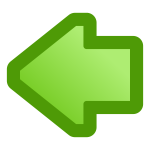
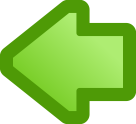
controls and background added

Changed region(s): [[0.0, 0.0, 1.0, 1.0]]

diff --git a/app/src/main/assets/PhoneMario.js b/app/src/main/assets/PhoneMario.js
@@ -28,19 +28,33 @@ class aSprite {
   }
 
   // Method
-  render()
+  render(width, height)
   {
-    canvasContext.drawImage(this.sImage,this.x, this.y);
+    canvasContext.drawImage(this.sImage,this.x, this.y, width, height);
   }
   // Method
-  scrollBK(delta)
+  scrollBK(delta, width, height)
   {
     //var xPos = delta * this.vx;
 
     canvasContext.save();
     canvasContext.translate(-delta, 0);
-    canvasContext.drawImage(this.sImage,0, 0);
-    canvasContext.drawImage(this.sImage,this.sImage.width, 0);
+    canvasContext.drawImage(this.sImage,0, 0, width, height);
+    canvasContext.drawImage(this.sImage,this.sImage.width, 0, width, height);
+    canvasContext.restore();
+  }
+
+  scrollBrick(delta, width, height)
+  {
+    //var xPos = delta * this.vx;
+
+    canvasContext.save();
+    canvasContext.translate(-delta, 0);
+    canvasContext.drawImage(this.sImage, 0, canvas.height - height, width, height);
+    canvasContext.drawImage(this.sImage, width, canvas.height - height, width, height);
+    canvasContext.drawImage(this.sImage, 2 * width, canvas.height - height, width, height);
+    canvasContext.drawImage(this.sImage, 3 * width, canvas.height - height, width, height);
+    canvasContext.drawImage(this.sImage, 4 * width, canvas.height - height, width, height);
     canvasContext.restore();
   }
   // Method
@@ -80,6 +94,9 @@ var leftIcon;
 var rightIcon;
 var lastPt=null;
 var gameOverScreen = false;
+var elapsed = null;
+var leftPressed = false;
+var rightPressed = false;
 
 function resizeCanvas() {
   canvas.width = window.innerWidth;
@@ -89,12 +106,14 @@ function resizeCanvas() {
 function resizeCar() {
   theCar.sImage.width = window.innerWidth/5;
   theCar.sImage.height = window.innerHeight/5;
-  console.log(theCar.sImage.height*5);
+  //console.log(theCar.sImage.height*5);
 }
 
 function resizeBackground() {
-  bkgdImage.sImage.height = window.innerHeight;
-  console.log(bkgdImage.sImage.height);
+  //console.log(canvas.height)
+  //console.log(bkgdImage.sImage.height)
+  bkgdImage.sImage.height = canvas.height;
+  //console.log(bkgdImage.sImage.height);
 }
 
 function load()
@@ -109,7 +128,7 @@ function init() {
   if (canvas.getContext) {
     //Set Event Listeners for window, mouse and touch
     window.addEventListener('resize', resizeCanvas, false);
-    window.addEventListener('orientationchange', resizeCanvas, true);
+    window.addEventListener('orientationchange', resizeCanvas, false);
 
     canvas.addEventListener("touchstart", touchDown, false);
     canvas.addEventListener("touchmove", touchXY, true);
@@ -119,56 +138,68 @@ function init() {
 
     resizeCanvas();
 
-    bkgdImage = new aSprite(0,0,"Road.png", 100, 0, "Generic");
-    theCar = new aSprite(100,0,"car.png", 0, 0, "Generic");
+    bkgdImage = new aSprite(0,0,"clouds.png", 100, 0, "Generic");
+    theCar = new aSprite(100,0,"mario.png", 0, 0, "Generic");
     left = new aSprite(100, 0, "left.png", 0, 0, "Generic");
+    right = new aSprite(100, 0, "right.png", 0, 0, "Generic");
+    brick1 = new aSprite(100, 0, "brick.png", 100, 0, "Generic");
+//    brick2 = new aSprite(100, 0, "brick.png", 100, 0, "Generic");
+//    brick3 = new aSprite(100, 0, "brick.png", 100, 0, "Generic");
 
-    resizeBackground();
-    resizeCar();
+    console.log(bkgdImage.sImage.height);
+    console.log(theCar.sImage.height);
+    console.log(left.sImage.height);
 
-    theCar.sPos(window.innerWidth/10,3*window.innerHeight/5);
-    left.sPos(window.innerWidth/10,4*window.innerHeight/5);
-    //console.log(theCar.y);
+    theCar.sPos(canvas.width/10, canvas.height - (3*canvas.height/20 + window.innerHeight/15));
+    left.sPos(canvas.width/10, 9 * canvas.height/10);
+    right.sPos(3*canvas.width/10, 9 * canvas.height/10);
     startTimeMS = Date.now();
     gameLoop();
   }
 }
 
 function gameLoop(){
-  //console.log("gameLoop");
-  var elapsed = (Date.now() - startTimeMS)/1000;
-  travel += elapsed * bkgdImage.vx;
+  elapsed = (Date.now() - startTimeMS)/1000;
+  if (leftPressed)
+  {
+    travel -= elapsed * bkgdImage.vx;
+  }
+  if (rightPressed)
+  {
+    travel += elapsed * bkgdImage.vx;
+  }
+
   if (travel > bkgdImage.sImage.width)
   {
     travel = 0;
   }
-
   update(elapsed);
   render(elapsed);
+
   startTimeMS = Date.now();
   requestAnimationFrame(gameLoop);
 }
 
 function render(delta) {
   canvasContext.clearRect(0,0,canvas.width, canvas.height);
-  bkgdImage.scrollBK(travel);
-  theCar.render();
-  left.render();
+  bkgdImage.scrollBK(travel, bkgdImage.sImage.width, canvas.height);
+  brick1.scrollBrick(travel, brick1.sImage.width/3, 3*canvas.height/20);
+  theCar.render(window.innerWidth/15, window.innerHeight/15);
+  left.render(window.innerWidth/10, window.innerHeight/10);
+  right.render(window.innerWidth/10, window.innerHeight/10);
 }
 
 function update(delta) {
 }
 
 function collisionDetection() {
-  console.log("x");
-  console.log(left.x);
-  console.log(lastPt.x);
-  console.log("y");
-  console.log(left.y);
-  console.log(lastPt.x);
-  if ((lastPt.x > left.x && lastPt.x < left.sImage.width) && (lastPt.y > left.y && lastPt.y < left.sImage.height))
+  if ((lastPt.x > left.x && lastPt.x < (left.x + left.sImage.width)) && (lastPt.y > left.y && lastPt.y < (left.y + left.sImage.height)))
   {
-    travel += elapsed * bkgdImage.vx;
+    leftPressed = true;
+  }
+  if ((lastPt.x > right.x && lastPt.x < (right.x + right.sImage.width)) && (lastPt.y > right.y && lastPt.y < (right.y + right.sImage.height)))
+  {
+    rightPressed = true;
   }
 }
 
@@ -184,23 +215,25 @@ function touchUp(evt) {
   evt.preventDefault();
   // Terminate touch path
   lastPt=null;
+  leftPressed = false;
+  rightPressed = false;
 }
 
 function touchDown(evt) {
   evt.preventDefault();
-  if(gameOverScreen)
-  {
-    return;
-  }
-  touchXY(evt);
-}
-
-function touchXY(evt) {
-  evt.preventDefault();
+  //if(gameOverScreen)
+  //{
+  //  return;
+  //}
+  //touchXY(evt);
   if(lastPt!=null) {
     var touchX = evt.touches[0].pageX - canvas.offsetLeft;
     var touchY = evt.touches[0].pageY - canvas.offsetTop;
   }
   lastPt = {x:evt.touches[0].pageX, y:evt.touches[0].pageY};
   collisionDetection(evt);
+}
+
+function touchXY(evt) {
+  evt.preventDefault();
 }
